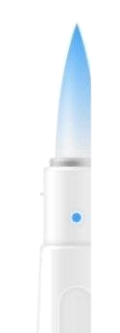
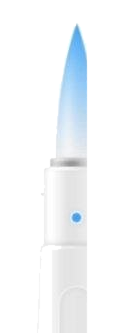
fix: выровнял карточки и инструменты по референсу
- карточки ластика, фото, текста и заметки пересобраны из референса: общий верх, точные ширины 48/66/65/73 и одинаковые отступы
- ряд инструментов выровнен по точечной сетке: центры 84/138/198/256/313/392/475/563, цветной кружок уменьшен до 28 px
- карандаш/маркеры/перо подогнаны по ширине, маски подрезаны и убран лишний ореол
- цвет акцента обрезается по силуэту инструмента, поэтому нет цветного ореола; карточка текста перекрашивается вместе с T
- Service Worker v2.8.0

diff --git a/scripts/components/drawing.js b/scripts/components/drawing.js
@@ -35,14 +35,14 @@ const HUES = [
 ];
 
 const TOOLS = [
-  { id: 'pen',          label: 'Карандаш',         w: 46, ink: '#1c1c1c' },
-  { id: 'markerBlue',   label: 'Голубой маркер',   w: 46, ink: '#5aaef8', marker: true },
-  { id: 'markerYellow', label: 'Жёлтый маркер',    w: 62, ink: '#ffab3f', marker: true },
-  { id: 'fountain',     label: 'Перо',             w: 46, ink: '#69cf36' },
-  { id: 'eraser',       label: 'Ластик',           w: 58 },
-  { id: 'image',        label: 'Изображение',      w: 78 },
-  { id: 'text',         label: 'Текст',            w: 78, ink: '#1c1c1c' },
-  { id: 'note',         label: 'Заметка',          w: 84, ink: '#1c1c1c' },
+  { id: 'pen',          label: 'Карандаш',         w: 40, ink: '#1c1c1c' },
+  { id: 'markerBlue',   label: 'Голубой маркер',   w: 56, ink: '#5aaef8', marker: true },
+  { id: 'markerYellow', label: 'Жёлтый маркер',    w: 52, ink: '#ffab3f', marker: true },
+  { id: 'fountain',     label: 'Перо',             w: 52, ink: '#69cf36' },
+  { id: 'eraser',       label: 'Ластик',           w: 50 },
+  { id: 'image',        label: 'Изображение',      w: 66, ml: 15 },
+  { id: 'text',         label: 'Текст',            w: 65, ml: 12, ink: '#1c1c1c' },
+  { id: 'note',         label: 'Заметка',          w: 73, ml: 12, ink: '#1c1c1c' },
 ];
 const TOOL_META = Object.fromEntries(TOOLS.map(t => [t.id, t]));
 const DEFAULT_INK = Object.fromEntries(TOOLS.filter(t => t.ink).map(t => [t.id, t.ink]));
@@ -97,7 +97,7 @@ export function openDrawing(onDone, opts = {}) {
     <div class="dw-dock">
       <button type="button" class="dw-color" data-a="color" aria-label="Выбрать цвет"><span class="dw-color-dot"></span></button>
       <div class="dw-strip">
-        ${TOOLS.map((t, i) => `<button type="button" class="dw-tool" data-tool="${t.id}" style="width:${t.w}px;--i:${i}" aria-label="${t.label}">${toolSkin(t.id)}</button>`).join('')}
+        ${TOOLS.map((t, i) => `<button type="button" class="dw-tool" data-tool="${t.id}" style="width:${t.w}px;margin-left:${t.ml || 0}px;--i:${i}" aria-label="${t.label}">${toolSkin(t.id)}</button>`).join('')}
       </div>
     </div>
     <div class="dw-palette" aria-hidden="true">

diff --git a/scripts/components/drawing-skins.js b/scripts/components/drawing-skins.js
@@ -6,14 +6,14 @@
    плоское пятно. По умолчанию показывается оригинальный рендер. */
 
 const SKINS = {
-  pen:          { w: 46, h: 203.8, top: -1, mode: 'color',    accent: true,  tool: true },
-  markerBlue:   { w: 62, h: 172.1, top: 5,  mode: 'multiply', accent: true,  tool: true },
+  pen:          { w: 43, h: 190.5, top: 0,  mode: 'color',    accent: true,  tool: true },
+  markerBlue:   { w: 64, h: 177.6, top: 4,  mode: 'multiply', accent: true,  tool: true },
   markerYellow: { w: 68, h: 119.2, top: 9,  mode: 'multiply', accent: true,  tool: true },
-  fountain:     { w: 50, h: 158.6, top: 1,  mode: 'multiply', accent: true,  tool: true },
-  eraser:       { w: 64, h: 125.4, top: -1 },
-  image:        { w: 90, h: 126.0, top: 22 },
-  text:         { w: 90, h: 126.0, top: 15, mode: 'color',    accent: true },
-  note:         { w: 96, h: 129.1, top: 23 },
+  fountain:     { w: 54, h: 171.3, top: 0,  mode: 'multiply', accent: true,  tool: true },
+  eraser:       { w: 48, h: 98,    top: 12, card: true },
+  image:        { w: 66, h: 98,    top: 12, card: true },
+  text:         { w: 65, h: 98,    top: 12, card: true, mode: 'color', accent: true },
+  note:         { w: 73, h: 98,    top: 12, card: true },
 };
 
 const DEFAULTS = {
@@ -33,7 +33,8 @@ function asset(name) {
 export function toolSkin(id) {
   const s = SKINS[id];
   if (!s) return '';
-  return `<span class="dw-skin-box" style="width:${s.w}px;height:${s.h}px;top:${s.top}px"><canvas class="dw-skin${s.tool ? ' dw-skin-tool' : ''}" data-skin="${id}" aria-hidden="true"></canvas></span>`;
+  const cls = s.tool ? ' dw-skin-tool' : (s.card ? ' dw-skin-card' : '');
+  return `<span class="dw-skin-box" style="width:${s.w}px;height:${s.h}px;top:${s.top}px"><canvas class="dw-skin${cls}" data-skin="${id}" aria-hidden="true"></canvas></span>`;
 }
 
 function render(rec) {
@@ -51,6 +52,8 @@ function render(rec) {
   t.fillRect(0, 0, cw, ch);
   t.globalCompositeOperation = 'destination-in';
   t.drawImage(rec.mask, 0, 0, cw, ch);
+  t.globalCompositeOperation = 'destination-in';
+  t.drawImage(rec.base, 0, 0, cw, ch);
   ctx.globalCompositeOperation = rec.mode;
   ctx.drawImage(tint, 0, 0);
   ctx.globalCompositeOperation = 'source-over';

diff --git a/styles/drawing.css b/styles/drawing.css
@@ -94,9 +94,9 @@ body.dw-open #screens-root { visibility: hidden; }
 }
 .dw-color {
   position: absolute;
-  left: 19px;
-  bottom: 62px;
-  width: 32px; height: 32px;
+  left: 18px;
+  bottom: 66px;
+  width: 28px; height: 28px;
   padding: 0;
   border: 0;
   border-radius: 50%;
@@ -108,7 +108,7 @@ body.dw-open #screens-root { visibility: hidden; }
 }
 .dw-color-dot {
   display: block;
-  width: 32px; height: 32px;
+  width: 28px; height: 28px;
   border-radius: 50%;
   background: #000;
   box-shadow: 0 0 0 2.5px #fff, 0 2px 7px rgba(0, 0, 0, .28), 0 7px 15px rgba(0, 0, 0, .13);
@@ -162,9 +162,11 @@ body.dw-open #screens-root { visibility: hidden; }
   height: 100%;
   pointer-events: none;
 }
-.dw-skin-tool { filter: drop-shadow(0 4px 5px rgba(0, 0, 0, .13)); }
+.dw-skin-tool { filter: none; }
+.dw-skin-card { filter: drop-shadow(0 2px 3px rgba(0, 0, 0, .06)); }
 .dw-tool.is-active { transform: translateY(-22px) scale(1.03); }
-.dw-tool.is-active .dw-skin-tool { filter: drop-shadow(0 8px 10px rgba(0, 0, 0, .15)); }
+.dw-tool.is-active .dw-skin-tool { filter: drop-shadow(0 6px 8px rgba(0, 0, 0, .10)); }
+.dw-tool.is-active .dw-skin-card { filter: drop-shadow(0 6px 8px rgba(0, 0, 0, .10)); }
 .dw-tool:not(.is-active):active { transform: translateY(-5px) scale(.985); }
 
 .draw-overlay.open .dw-tool {

diff --git a/sw.js b/sw.js
@@ -1,5 +1,5 @@
 /* Заметки — Service Worker: полный офлайн (прекэш всех ресурсов, fallback навигации) */
-const VERSION = 'notes-v2.7.0';
+const VERSION = 'notes-v2.8.0';
 const PRECACHE = `precache-${VERSION}`;
 const RUNTIME = `runtime-${VERSION}`;
 
